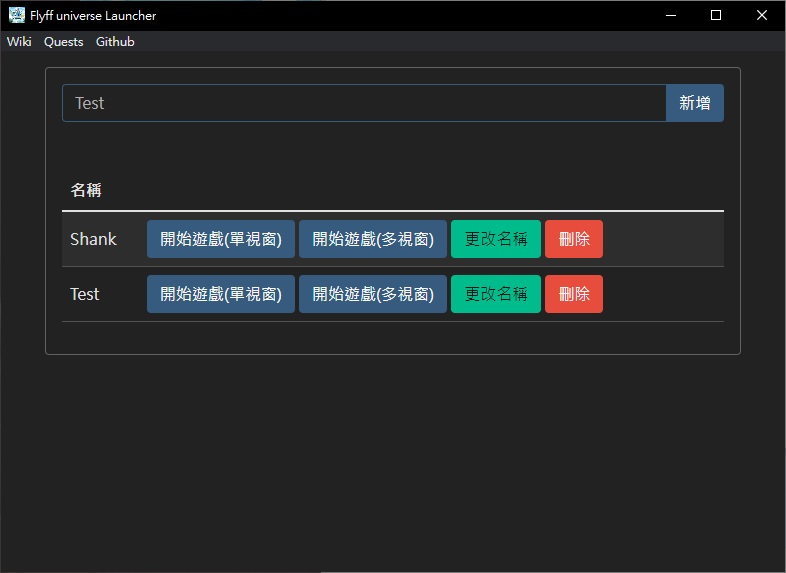
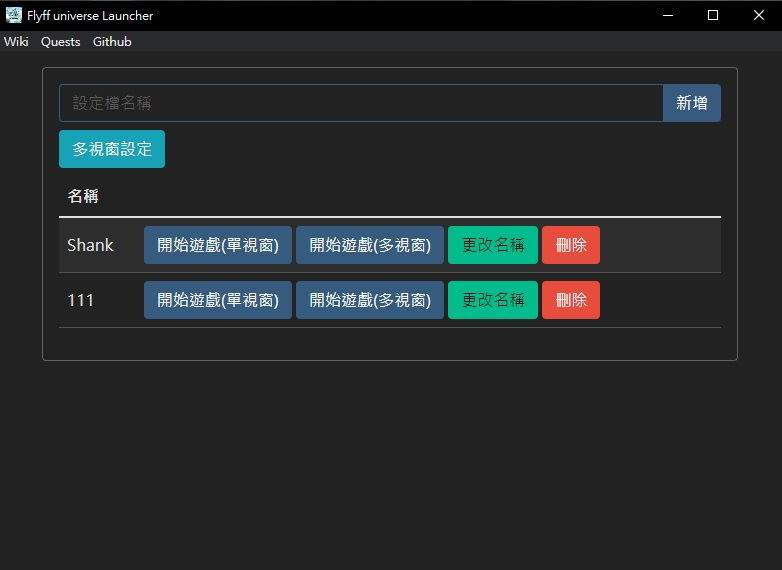
[update] 多視窗設定UI/UX

diff --git a/public/index.html b/public/index.html
@@ -130,37 +130,44 @@
 
                 <div class="modal-body">
                     <div class="row">
-                        2個視窗
+                        <h4 class="text-info">2個視窗</h4>
                         <div class="form-check form-check-inline">
-                            <input class="form-check-input" type="radio" name="multi-2-windows-size" id="2-50-100" value="1">
-                            <label class="form-check-label" for="2-50-100">高50% 寬100%</label>
+                            <input class="form-check-input" type="radio" name="multi-2-windows-size" id="2-50-100"
+                                   value="1">
+                            <label class="form-check-label" for="2-50-100">高: 50% 寬: 100%</label>
                         </div>
                         <div class="form-check form-check-inline">
-                            <input class="form-check-input" type="radio" name="multi-2-windows-size" id="2-100-50" value="2">
-                            <label class="form-check-label" for="2-100-50">高100% 寬50%</label>
+                            <input class="form-check-input" type="radio" name="multi-2-windows-size" id="2-100-50"
+                                   value="2">
+                            <label class="form-check-label" for="2-100-50">高: 100% 寬: 50%</label>
                         </div>
                         <div class="form-check form-check-inline">
-                            <input class="form-check-input" type="radio" name="multi-2-windows-size" id="2-100-100" value="3">
-                            <label class="form-check-label" for="2-100-100">高100% 寬100%</label>
+                            <input class="form-check-input" type="radio" name="multi-2-windows-size" id="2-100-100"
+                                   value="3">
+                            <label class="form-check-label" for="2-100-100">高: 100% 寬: 100%</label>
                         </div>
                     </div>
-                    <div class="row">
-                        3個視窗以上
+                    <div class="row mt-3">
+                        <h4 class="text-info">3個視窗以上</h4>
                         <div class="form-check form-check-inline">
-                            <input class="form-check-input" type="radio" name="multi-more-windows-size" id="50-100" value="1">
-                            <label class="form-check-label" for="50-100">高50% 寬100%</label>
+                            <input class="form-check-input" type="radio" name="multi-more-windows-size" id="50-100"
+                                   value="1">
+                            <label class="form-check-label" for="50-100">高: 50% 寬: 100%</label>
                         </div>
                         <div class="form-check form-check-inline">
-                            <input class="form-check-input" type="radio" name="multi-more-windows-size" id="100-50" value="2">
-                            <label class="form-check-label" for="100-50">高100% 寬50%</label>
+                            <input class="form-check-input" type="radio" name="multi-more-windows-size" id="100-50"
+                                   value="2">
+                            <label class="form-check-label" for="100-50">高: 100% 寬: 50%</label>
                         </div>
                         <div class="form-check form-check-inline">
-                            <input class="form-check-input" type="radio" name="multi-more-windows-size" id="100-100" value="3">
-                            <label class="form-check-label" for="100-100">高100% 寬100%</label>
+                            <input class="form-check-input" type="radio" name="multi-more-windows-size" id="100-100"
+                                   value="3">
+                            <label class="form-check-label" for="100-100">高: 100% 寬: 100%</label>
                         </div>
                         <div class="form-check form-check-inline">
-                            <input class="form-check-input" type="radio" name="multi-more-windows-size" id="50-50" value="4">
-                            <label class="form-check-label" for="50-50">高50% 寬50%</label>
+                            <input class="form-check-input" type="radio" name="multi-more-windows-size" id="50-50"
+                                   value="4">
+                            <label class="form-check-label" for="50-50">高: 50% 寬: 50%</label>
                         </div>
                     </div>
                 </div>

diff --git a/README.md b/README.md
@@ -1,5 +1,5 @@
 # flyff universe launcher
- flyff universe win10 啟動器
+ flyff universe 啟動器 (windows)
 
 [Download](https://github.com/yungming/flyff-universe-launcher/releases/download/1.0.5/flyff.universe.launcher.rar)
 
@@ -9,8 +9,8 @@
 - F11 全螢幕
 - 本應用程式基於Electron開發，跟Discord同一個Core
 - 應用程式為學術研究
-- 除非重大BUG才會修復 
 - 應用程式已用卡巴斯基掃毒，無病毒
+- 多視窗設定自由擺放
 - 覺得好用可以斗內↓
 
 <a href='https://ko-fi.com/Z8Z7GSFJE' target='_blank'><img height='36' style='border:0px;height:36px;' src='https://storage.ko-fi.com/cdn/kofi2.png?v=3' border='0' alt='Buy Me a Coffee at ko-fi.com' /></a>
@@ -19,7 +19,8 @@
 #### Main Window(主頁面)
 ![main window](screenShots/main.jpg?v=1.0)
 #### Multi Window(同一個視窗多開)
+![multiWindowSetting.jpg](screenShots/multiWindowSetting.jpg)
 ![multiWindows.jpg](screenShots/multiWindows.jpg)
-![multiWindow-2.jpg](screenShots%2FmultiWindow-2.jpg)
+![multiWindow-2.jpg](screenShots/multiWindow-2.jpg)
 #### Single Window(單一視窗)
 ![singleWindow.jpg](screenShots/singleWindow.jpg)
